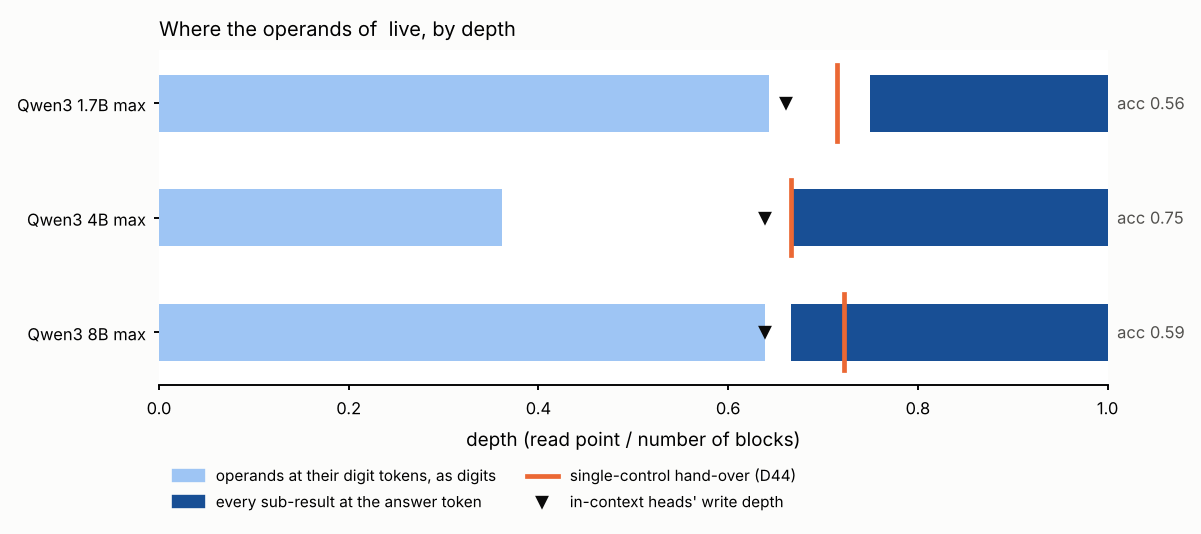
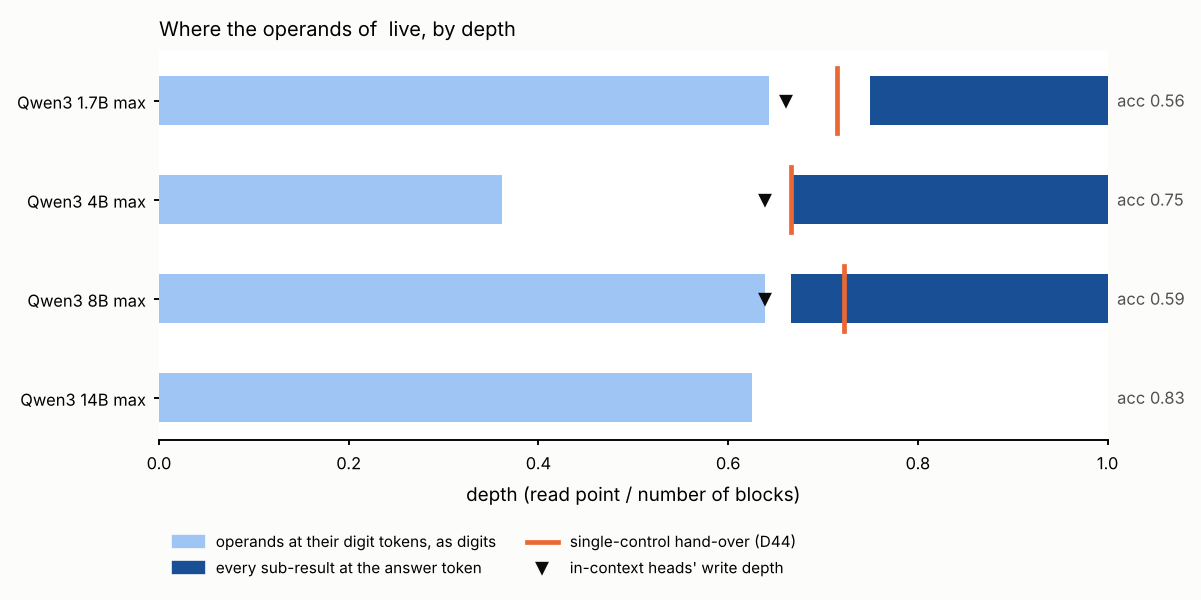
D55 14B job 1 summaries: max map and probe with the 14B (no gather at the answer token alone; probe read around G* = 30)
Claude-Session: https://claude.ai/code/session_01N4g8yTdSDrK4B3gLRNuNBg

diff --git a/scripts/varprobe_summary.py b/scripts/varprobe_summary.py
@@ -26,7 +26,8 @@ GATHER = {"qwen3_0.6b": 21, "qwen3_1.7b": 21, "qwen3_4b": 24, "qwen3_8b": 24, "q
 # the three-bracket gather G3 per model (D51; first read point with all three sums at the answer token)
 GATHER3 = {"qwen3_4b": 24, "qwen3_8b": 24, "qwen3_14b": 30}  # runs 38934415363, 38934932951, 38934471957
 # the max gather per model (D55; first read point with both sums at the answer token), from its job 1
-GATHER_MAX = {"qwen3_1.7b": 21, "qwen3_4b": 24, "qwen3_8b": 24}  # runs 39178177443, 39178188546
+GATHER_MAX = {"qwen3_1.7b": 21, "qwen3_4b": 24, "qwen3_8b": 24,  # runs 39178177443, 39178188546
+              "qwen3_14b": 30}  # G* (D55 amended): the 14B never gathers at the answer token alone (run 39252850362)
 
 
 
